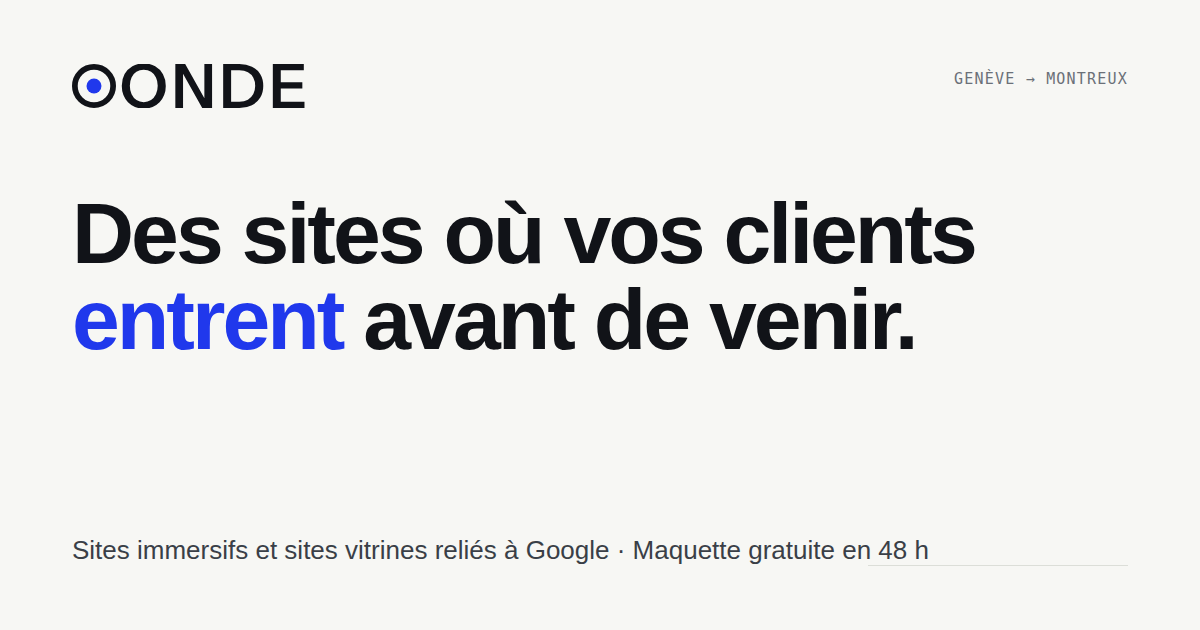
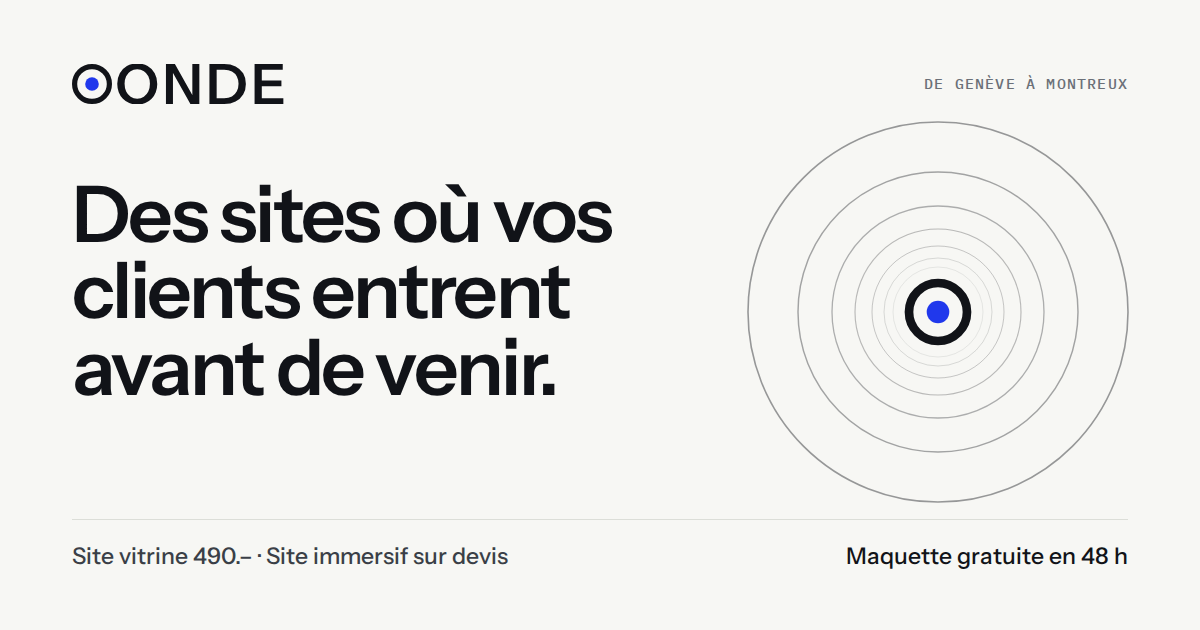
oonde-site : pages légales à jour, image de partage refaite, barre mobile
Mentions légales sans l'étude retirée de l'accueil, démos et polices à jour ;
conditions générales couvrant aussi le site immersif et les vidéos sur devis.
Image de partage avec les vraies polices et le motif de l'onde. Sur téléphone,
le bouton du haut se replie quand la barre du bas apparaît et sort de l'ordre
de tabulation. Le logo en vol reste fixe dans l'écran si l'on défile vite.

Claude-Session: https://claude.ai/code/session_01NQT9rugiEjtqW54YaMW6nL

diff --git a/oonde-site/v2/dist/conditions.html b/oonde-site/v2/dist/conditions.html
@@ -50,8 +50,8 @@ footer a[aria-current]{color:var(--ink);font-weight:600}
 <main class="doc">
 <span class="eyebrow">Contrat</span>
 <h1>Conditions générales</h1>
-<p class="updated">Version du 6 octobre 2026</p>
-<p class="lead">Ces conditions s’appliquent à nos prestations de création de site internet, de configuration de fiche Google et de suivi, pour les commerces et indépendants. Elles font partie de chaque offre que nous envoyons.</p>
+<p class="updated">Version du 7 octobre 2026</p>
+<p class="lead">Ces conditions s’appliquent à nos prestations pour les commerces et indépendants : site vitrine, site immersif, configuration et suivi de fiche Google, vidéos courtes. Elles font partie de chaque offre que nous envoyons.</p>
 
 <h2>1. Parties</h2>
 <p>Le prestataire est OONDE, Alexandre Steudler et Serhat Dogar, Chemin des Écureuils 1, 1028 Préverenges (« nous »). Le client est le commerce ou l’indépendant qui accepte notre offre (« vous »). Nos prestations s’adressent aux professionnels.</p>
@@ -66,7 +66,8 @@ footer a[aria-current]{color:var(--ink);font-weight:600}
  <li>Nous confirmons par écrit et commençons le travail.</li>
 </ol>
 
-<h2>4. Ce que comprend le Pack OONDE</h2>
+<h2>4. Ce que comprennent nos offres</h2>
+<p><b>Site vitrine et fiche Google</b> (490 CHF, puis abonnement) :</p>
 <ul>
  <li>un site d’une page, adapté au téléphone, avec vos prestations, prix, horaires, adresse, plan et boutons d’appel et de WhatsApp ;</li>
  <li>la rédaction des textes à partir des informations que vous nous donnez ;</li>
@@ -74,6 +75,7 @@ footer a[aria-current]{color:var(--ink);font-weight:600}
  <li>l’enregistrement d’un nom de domaine en .ch (ou le raccordement du vôtre) et l’hébergement ;</li>
  <li>tant que l’abonnement court : l’hébergement, le renouvellement du domaine et les petites modifications (prix, horaires, textes courts, remplacement de photos), dans un délai de 3 jours ouvrables après votre demande.</li>
 </ul>
+<p><b>Site immersif et vidéos courtes</b> (sur devis) : l’offre écrite précise ce qui est filmé ou modélisé en 3D, les pages, le prix et les délais. Le site immersif comprend le site vitrine décrit ci-dessus et, pour un commerce, la fiche Google ; l’abonnement s’applique de la même manière. Avec le devis, nous vous envoyons un premier aperçu de votre lieu, gratuit et sans engagement.</p>
 <p>Les travaux plus importants (nouvelle page, refonte, boutique en ligne, réservation en ligne connectée à un agenda) font l’objet d’une offre séparée.</p>
 
 <h2>5. Délais et validation</h2>
@@ -81,9 +83,10 @@ footer a[aria-current]{color:var(--ink);font-weight:600}
 
 <h2>6. Prix et paiement</h2>
 <ul>
- <li>Création : <b>490 CHF</b>, une seule fois, facturés à la mise en ligne, <b>seulement si vous validez le site</b>. Si vous refusez le site terminé, vous ne payez rien et nous le retirons.</li>
+ <li>Création du site vitrine : <b>490 CHF</b>, une seule fois, facturés à la mise en ligne, <b>seulement si vous validez le site</b>. Si vous refusez le site terminé, vous ne payez rien et nous le retirons.</li>
  <li>Abonnement : <b>20 CHF par mois</b>, à partir de la mise en ligne, facturé par mois ou par année selon votre choix.</li>
  <li>Option Suivi Google : <b>50 CHF par mois</b>.</li>
+ <li>Site immersif et vidéos : le prix fixé dans l’offre acceptée, facturé selon l’échéancier qu’elle prévoit.</li>
  <li>Les factures sont payables dans les 10 jours, par virement ou TWINT. Prix en francs suisses. OONDE n’est pas assujetti à la TVA (<span class="law">art. 10 LTVA</span>).</li>
  <li>Après un rappel resté sans suite pendant 30 jours, nous pouvons suspendre le site jusqu’au paiement.</li>
 </ul>

diff --git a/oonde-site/v2/preview/conditions.html b/oonde-site/v2/preview/conditions.html
@@ -50,8 +50,8 @@ footer a[aria-current]{color:var(--ink);font-weight:600}
 <main class="doc">
 <span class="eyebrow">Contrat</span>
 <h1>Conditions générales</h1>
-<p class="updated">Version du 6 octobre 2026</p>
-<p class="lead">Ces conditions s’appliquent à nos prestations de création de site internet, de configuration de fiche Google et de suivi, pour les commerces et indépendants. Elles font partie de chaque offre que nous envoyons.</p>
+<p class="updated">Version du 7 octobre 2026</p>
+<p class="lead">Ces conditions s’appliquent à nos prestations pour les commerces et indépendants : site vitrine, site immersif, configuration et suivi de fiche Google, vidéos courtes. Elles font partie de chaque offre que nous envoyons.</p>
 
 <h2>1. Parties</h2>
 <p>Le prestataire est OONDE, Alexandre Steudler et Serhat Dogar, Chemin des Écureuils 1, 1028 Préverenges (« nous »). Le client est le commerce ou l’indépendant qui accepte notre offre (« vous »). Nos prestations s’adressent aux professionnels.</p>
@@ -66,7 +66,8 @@ footer a[aria-current]{color:var(--ink);font-weight:600}
  <li>Nous confirmons par écrit et commençons le travail.</li>
 </ol>
 
-<h2>4. Ce que comprend le Pack OONDE</h2>
+<h2>4. Ce que comprennent nos offres</h2>
+<p><b>Site vitrine et fiche Google</b> (490 CHF, puis abonnement) :</p>
 <ul>
  <li>un site d’une page, adapté au téléphone, avec vos prestations, prix, horaires, adresse, plan et boutons d’appel et de WhatsApp ;</li>
  <li>la rédaction des textes à partir des informations que vous nous donnez ;</li>
@@ -74,6 +75,7 @@ footer a[aria-current]{color:var(--ink);font-weight:600}
  <li>l’enregistrement d’un nom de domaine en .ch (ou le raccordement du vôtre) et l’hébergement ;</li>
  <li>tant que l’abonnement court : l’hébergement, le renouvellement du domaine et les petites modifications (prix, horaires, textes courts, remplacement de photos), dans un délai de 3 jours ouvrables après votre demande.</li>
 </ul>
+<p><b>Site immersif et vidéos courtes</b> (sur devis) : l’offre écrite précise ce qui est filmé ou modélisé en 3D, les pages, le prix et les délais. Le site immersif comprend le site vitrine décrit ci-dessus et, pour un commerce, la fiche Google ; l’abonnement s’applique de la même manière. Avec le devis, nous vous envoyons un premier aperçu de votre lieu, gratuit et sans engagement.</p>
 <p>Les travaux plus importants (nouvelle page, refonte, boutique en ligne, réservation en ligne connectée à un agenda) font l’objet d’une offre séparée.</p>
 
 <h2>5. Délais et validation</h2>
@@ -81,9 +83,10 @@ footer a[aria-current]{color:var(--ink);font-weight:600}
 
 <h2>6. Prix et paiement</h2>
 <ul>
- <li>Création : <b>490 CHF</b>, une seule fois, facturés à la mise en ligne, <b>seulement si vous validez le site</b>. Si vous refusez le site terminé, vous ne payez rien et nous le retirons.</li>
+ <li>Création du site vitrine : <b>490 CHF</b>, une seule fois, facturés à la mise en ligne, <b>seulement si vous validez le site</b>. Si vous refusez le site terminé, vous ne payez rien et nous le retirons.</li>
  <li>Abonnement : <b>20 CHF par mois</b>, à partir de la mise en ligne, facturé par mois ou par année selon votre choix.</li>
  <li>Option Suivi Google : <b>50 CHF par mois</b>.</li>
+ <li>Site immersif et vidéos : le prix fixé dans l’offre acceptée, facturé selon l’échéancier qu’elle prévoit.</li>
  <li>Les factures sont payables dans les 10 jours, par virement ou TWINT. Prix en francs suisses. OONDE n’est pas assujetti à la TVA (<span class="law">art. 10 LTVA</span>).</li>
  <li>Après un rappel resté sans suite pendant 30 jours, nous pouvons suspendre le site jusqu’au paiement.</li>
 </ul>

diff --git a/oonde-site/v2/legal/conditions.html b/oonde-site/v2/legal/conditions.html
@@ -1,7 +1,7 @@
 <span class="eyebrow">Contrat</span>
 <h1>Conditions générales</h1>
-<p class="updated">Version du 6 octobre 2026</p>
-<p class="lead">Ces conditions s'appliquent à nos prestations de création de site internet, de configuration de fiche Google et de suivi, pour les commerces et indépendants. Elles font partie de chaque offre que nous envoyons.</p>
+<p class="updated">Version du 7 octobre 2026</p>
+<p class="lead">Ces conditions s'appliquent à nos prestations pour les commerces et indépendants : site vitrine, site immersif, configuration et suivi de fiche Google, vidéos courtes. Elles font partie de chaque offre que nous envoyons.</p>
 
 <h2>1. Parties</h2>
 <p>Le prestataire est OONDE, Alexandre Steudler et Serhat Dogar, Chemin des Écureuils 1, 1028 Préverenges (« nous »). Le client est le commerce ou l'indépendant qui accepte notre offre (« vous »). Nos prestations s'adressent aux professionnels.</p>
@@ -16,7 +16,8 @@
  <li>Nous confirmons par écrit et commençons le travail.</li>
 </ol>
 
-<h2>4. Ce que comprend le Pack OONDE</h2>
+<h2>4. Ce que comprennent nos offres</h2>
+<p><b>Site vitrine et fiche Google</b> (490 CHF, puis abonnement) :</p>
 <ul>
  <li>un site d'une page, adapté au téléphone, avec vos prestations, prix, horaires, adresse, plan et boutons d'appel et de WhatsApp ;</li>
  <li>la rédaction des textes à partir des informations que vous nous donnez ;</li>
@@ -24,6 +25,7 @@
  <li>l'enregistrement d'un nom de domaine en .ch (ou le raccordement du vôtre) et l'hébergement ;</li>
  <li>tant que l'abonnement court : l'hébergement, le renouvellement du domaine et les petites modifications (prix, horaires, textes courts, remplacement de photos), dans un délai de 3 jours ouvrables après votre demande.</li>
 </ul>
+<p><b>Site immersif et vidéos courtes</b> (sur devis) : l'offre écrite précise ce qui est filmé ou modélisé en 3D, les pages, le prix et les délais. Le site immersif comprend le site vitrine décrit ci-dessus et, pour un commerce, la fiche Google ; l'abonnement s'applique de la même manière. Avec le devis, nous vous envoyons un premier aperçu de votre lieu, gratuit et sans engagement.</p>
 <p>Les travaux plus importants (nouvelle page, refonte, boutique en ligne, réservation en ligne connectée à un agenda) font l'objet d'une offre séparée.</p>
 
 <h2>5. Délais et validation</h2>
@@ -31,9 +33,10 @@
 
 <h2>6. Prix et paiement</h2>
 <ul>
- <li>Création : <b>490 CHF</b>, une seule fois, facturés à la mise en ligne, <b>seulement si vous validez le site</b>. Si vous refusez le site terminé, vous ne payez rien et nous le retirons.</li>
+ <li>Création du site vitrine : <b>490 CHF</b>, une seule fois, facturés à la mise en ligne, <b>seulement si vous validez le site</b>. Si vous refusez le site terminé, vous ne payez rien et nous le retirons.</li>
  <li>Abonnement : <b>20 CHF par mois</b>, à partir de la mise en ligne, facturé par mois ou par année selon votre choix.</li>
  <li>Option Suivi Google : <b>50 CHF par mois</b>.</li>
+ <li>Site immersif et vidéos : le prix fixé dans l'offre acceptée, facturé selon l'échéancier qu'elle prévoit.</li>
  <li>Les factures sont payables dans les 10 jours, par virement ou TWINT. Prix en francs suisses. OONDE n'est pas assujetti à la TVA (<span class="law">art. 10 LTVA</span>).</li>
  <li>Après un rappel resté sans suite pendant 30 jours, nous pouvons suspendre le site jusqu'au paiement.</li>
 </ul>

diff --git a/oonde-site/v2/dist/index.html b/oonde-site/v2/dist/index.html
@@ -71,7 +71,7 @@ section{padding-block:clamp(48px,7vw,96px);border-top:1px solid var(--line)}
 .nav .btn{padding:10px 14px;font-size:14px;min-height:40px;transition:opacity .2s,background-color .12s}
 .nav .btn .s{display:none}
 @media (max-width:860px){.nav nav a:not(.keep){display:none}}
-@media (max-width:700px){.nav .in{height:56px}.logo svg{height:20px}.nav .btn .l{display:none}.nav .btn .s{display:inline}.e-cta .nav .btn,.mbar-on .nav .btn{opacity:0;pointer-events:none}}
+@media (max-width:700px){.nav .in{height:56px}.logo svg{height:20px}.nav nav{margin-left:auto}.nav .btn .l{display:none}.nav .btn .s{display:inline}.nav .btn{max-width:160px;overflow:hidden;white-space:nowrap;transition:opacity .18s,max-width .22s var(--ease),padding .22s var(--ease),margin .22s var(--ease),visibility 0s}.e-cta .nav .btn,.mbar-on .nav .btn{opacity:0;max-width:0;padding-inline:0;margin-left:-16px;border-width:0;visibility:hidden;transition:opacity .18s,max-width .22s var(--ease),padding .22s var(--ease),margin .22s var(--ease),visibility 0s .22s}}   /* téléphone : quand la barre du bas prend le relais, le bouton du haut se replie et « Prix » glisse à droite */
 
 /* Le fil : un trait dans la marge, le point marque où l'on est. Ordinateur large seulement. */
 .fil{display:none}
@@ -635,7 +635,8 @@ function ui(p){
  /* Le logo apparaît exactement sur le dernier anneau, les lettres sortent de derrière le O, puis il rejoint la barre. */
  const r=navLogo.querySelector('svg').getBoundingClientRect(),s=stage.getBoundingClientRect(),u=ease(clamp((p-PF)/(1-PF),0,1)),rv=clamp((p-PS-.015)/.06,0,1);
  /* téléphone : pendant que les lettres sortent, le O glisse à gauche pour que le mot entier soit centré */
- const x0=(mob?lerp(cx-.5*Hl,(W-5.35*Hl)/2,ease(rv)):cx-.5*Hl)+s.left,y0=cy-.5*Hl+s.top;
+ /* le point de départ reste fixe dans l'écran : si l'on défile vite, le grand logo ne remonte pas avec la scène par-dessus la barre */
+ const x0=(mob?lerp(cx-.5*Hl,(W-5.35*Hl)/2,ease(rv)):cx-.5*Hl)+s.left,y0=cy-.5*Hl+Math.max(0,s.top);
  const lx=lerp(x0,r.left,u),lh=lerp(Hl,r.height,u);
  eLogo.style.opacity=u>=1?0:1;eLogo.style.left=lx+'px';eLogo.style.top=lerp(y0,r.top,u)+'px';eLogo.style.height=lh+'px';
  /* Les lettres ne sortent que là où l'écran a la place : sur téléphone, le mot se déroule pendant que le logo glisse vers la barre. */

diff --git a/oonde-site/v2/home.html b/oonde-site/v2/home.html
@@ -64,7 +64,7 @@ section{padding-block:clamp(48px,7vw,96px);border-top:1px solid var(--line)}
 .nav .btn{padding:10px 14px;font-size:14px;min-height:40px;transition:opacity .2s,background-color .12s}
 .nav .btn .s{display:none}
 @media (max-width:860px){.nav nav a:not(.keep){display:none}}
-@media (max-width:700px){.nav .in{height:56px}.logo svg{height:20px}.nav .btn .l{display:none}.nav .btn .s{display:inline}.e-cta .nav .btn,.mbar-on .nav .btn{opacity:0;pointer-events:none}}
+@media (max-width:700px){.nav .in{height:56px}.logo svg{height:20px}.nav nav{margin-left:auto}.nav .btn .l{display:none}.nav .btn .s{display:inline}.nav .btn{max-width:160px;overflow:hidden;white-space:nowrap;transition:opacity .18s,max-width .22s var(--ease),padding .22s var(--ease),margin .22s var(--ease),visibility 0s}.e-cta .nav .btn,.mbar-on .nav .btn{opacity:0;max-width:0;padding-inline:0;margin-left:-16px;border-width:0;visibility:hidden;transition:opacity .18s,max-width .22s var(--ease),padding .22s var(--ease),margin .22s var(--ease),visibility 0s .22s}}   /* téléphone : quand la barre du bas prend le relais, le bouton du haut se replie et « Prix » glisse à droite */
 
 /* Le fil : un trait dans la marge, le point marque où l'on est. Ordinateur large seulement. */
 .fil{display:none}
@@ -626,7 +626,8 @@ function ui(p){
  /* Le logo apparaît exactement sur le dernier anneau, les lettres sortent de derrière le O, puis il rejoint la barre. */
  const r=navLogo.querySelector('svg').getBoundingClientRect(),s=stage.getBoundingClientRect(),u=ease(clamp((p-PF)/(1-PF),0,1)),rv=clamp((p-PS-.015)/.06,0,1);
  /* téléphone : pendant que les lettres sortent, le O glisse à gauche pour que le mot entier soit centré */
- const x0=(mob?lerp(cx-.5*Hl,(W-5.35*Hl)/2,ease(rv)):cx-.5*Hl)+s.left,y0=cy-.5*Hl+s.top;
+ /* le point de départ reste fixe dans l'écran : si l'on défile vite, le grand logo ne remonte pas avec la scène par-dessus la barre */
+ const x0=(mob?lerp(cx-.5*Hl,(W-5.35*Hl)/2,ease(rv)):cx-.5*Hl)+s.left,y0=cy-.5*Hl+Math.max(0,s.top);
  const lx=lerp(x0,r.left,u),lh=lerp(Hl,r.height,u);
  eLogo.style.opacity=u>=1?0:1;eLogo.style.left=lx+'px';eLogo.style.top=lerp(y0,r.top,u)+'px';eLogo.style.height=lh+'px';
  /* Les lettres ne sortent que là où l'écran a la place : sur téléphone, le mot se déroule pendant que le logo glisse vers la barre. */

diff --git a/oonde-site/v2/preview/index.html b/oonde-site/v2/preview/index.html
@@ -64,7 +64,7 @@ section{padding-block:clamp(48px,7vw,96px);border-top:1px solid var(--line)}
 .nav .btn{padding:10px 14px;font-size:14px;min-height:40px;transition:opacity .2s,background-color .12s}
 .nav .btn .s{display:none}
 @media (max-width:860px){.nav nav a:not(.keep){display:none}}
-@media (max-width:700px){.nav .in{height:56px}.logo svg{height:20px}.nav .btn .l{display:none}.nav .btn .s{display:inline}.e-cta .nav .btn,.mbar-on .nav .btn{opacity:0;pointer-events:none}}
+@media (max-width:700px){.nav .in{height:56px}.logo svg{height:20px}.nav nav{margin-left:auto}.nav .btn .l{display:none}.nav .btn .s{display:inline}.nav .btn{max-width:160px;overflow:hidden;white-space:nowrap;transition:opacity .18s,max-width .22s var(--ease),padding .22s var(--ease),margin .22s var(--ease),visibility 0s}.e-cta .nav .btn,.mbar-on .nav .btn{opacity:0;max-width:0;padding-inline:0;margin-left:-16px;border-width:0;visibility:hidden;transition:opacity .18s,max-width .22s var(--ease),padding .22s var(--ease),margin .22s var(--ease),visibility 0s .22s}}   /* téléphone : quand la barre du bas prend le relais, le bouton du haut se replie et « Prix » glisse à droite */
 
 /* Le fil : un trait dans la marge, le point marque où l'on est. Ordinateur large seulement. */
 .fil{display:none}
@@ -626,7 +626,8 @@ function ui(p){
  /* Le logo apparaît exactement sur le dernier anneau, les lettres sortent de derrière le O, puis il rejoint la barre. */
  const r=navLogo.querySelector('svg').getBoundingClientRect(),s=stage.getBoundingClientRect(),u=ease(clamp((p-PF)/(1-PF),0,1)),rv=clamp((p-PS-.015)/.06,0,1);
  /* téléphone : pendant que les lettres sortent, le O glisse à gauche pour que le mot entier soit centré */
- const x0=(mob?lerp(cx-.5*Hl,(W-5.35*Hl)/2,ease(rv)):cx-.5*Hl)+s.left,y0=cy-.5*Hl+s.top;
+ /* le point de départ reste fixe dans l'écran : si l'on défile vite, le grand logo ne remonte pas avec la scène par-dessus la barre */
+ const x0=(mob?lerp(cx-.5*Hl,(W-5.35*Hl)/2,ease(rv)):cx-.5*Hl)+s.left,y0=cy-.5*Hl+Math.max(0,s.top);
  const lx=lerp(x0,r.left,u),lh=lerp(Hl,r.height,u);
  eLogo.style.opacity=u>=1?0:1;eLogo.style.left=lx+'px';eLogo.style.top=lerp(y0,r.top,u)+'px';eLogo.style.height=lh+'px';
  /* Les lettres ne sortent que là où l'écran a la place : sur téléphone, le mot se déroule pendant que le logo glisse vers la barre. */

diff --git a/oonde-site/v2/dist/mentions-legales.html b/oonde-site/v2/dist/mentions-legales.html
@@ -50,7 +50,7 @@ footer a[aria-current]{color:var(--ink);font-weight:600}
 <main class="doc">
 <span class="eyebrow">Informations légales</span>
 <h1>Mentions légales</h1>
-<p class="updated">Dernière mise à jour : 6 octobre 2026</p>
+<p class="updated">Dernière mise à jour : 7 octobre 2026</p>
 
 <h2>Qui édite ce site</h2>
 <div class="card">
@@ -72,11 +72,8 @@ footer a[aria-current]{color:var(--ink);font-weight:600}
 <p>Ce site est hébergé par Netlify, Inc., 101 2nd Street, San Francisco, CA 94105, États-Unis. Le nom de domaine oonde.ch est enregistré auprès de Hostinger.</p>
 
 <h2>Propriété intellectuelle</h2>
-<p>Les textes, le logo OONDE et la mise en page de ce site appartiennent à OONDE. Toute reproduction demande notre accord écrit (<span class="law">LDA, RS 231.1</span>). Les commerces présentés en exemple (Salon Mirabelle, Garage des Tilleuls, Trattoria Nonna Pia) sont fictifs.</p>
-<p>Les polices Bricolage Grotesque, Instrument Sans et IBM Plex Mono sont utilisées sous licence SIL Open Font License et sont hébergées sur notre propre serveur.</p>
-
-<h2>Étude citée</h2>
-<p>Les chiffres de la page d’accueil viennent d’une étude menée par OONDE en septembre 2026 : 1 200 fiches Google Maps relevées, soit les 20 premiers résultats pour les garages, restaurants et coiffeurs de plusieurs villes de Suisse romande. Ils décrivent ce qu’ont en commun les fiches les mieux placées. Ils ne garantissent aucun classement.</p>
+<p>Les textes, le logo OONDE et la mise en page de ce site appartiennent à OONDE. Toute reproduction demande notre accord écrit (<span class="law">LDA, RS 231.1</span>). Les lieux et commerces présentés en démonstration (Les Grèves, Salon Mirabelle, Garage Fontana, Trattoria Nonna Pia) sont fictifs, comme les noms, prix et horaires des aperçus de l’essai.</p>
+<p>Les polices Instrument Sans et IBM Plex Mono sont utilisées sous licence SIL Open Font License et sont hébergées sur notre propre serveur.</p>
 
 <h2>Responsabilité</h2>
 <p>Nous vérifions avec soin les informations de ce site, sans pouvoir garantir qu’elles soient toujours complètes et à jour. Les liens vers d’autres sites (WhatsApp, Instagram, Fedlex) sont fournis pour votre confort ; nous ne sommes pas responsables de leur contenu.</p>

diff --git a/oonde-site/v2/preview/mentions-legales.html b/oonde-site/v2/preview/mentions-legales.html
@@ -50,7 +50,7 @@ footer a[aria-current]{color:var(--ink);font-weight:600}
 <main class="doc">
 <span class="eyebrow">Informations légales</span>
 <h1>Mentions légales</h1>
-<p class="updated">Dernière mise à jour : 6 octobre 2026</p>
+<p class="updated">Dernière mise à jour : 7 octobre 2026</p>
 
 <h2>Qui édite ce site</h2>
 <div class="card">
@@ -72,11 +72,8 @@ footer a[aria-current]{color:var(--ink);font-weight:600}
 <p>Ce site est hébergé par Netlify, Inc., 101 2nd Street, San Francisco, CA 94105, États-Unis. Le nom de domaine oonde.ch est enregistré auprès de Hostinger.</p>
 
 <h2>Propriété intellectuelle</h2>
-<p>Les textes, le logo OONDE et la mise en page de ce site appartiennent à OONDE. Toute reproduction demande notre accord écrit (<span class="law">LDA, RS 231.1</span>). Les commerces présentés en exemple (Salon Mirabelle, Garage des Tilleuls, Trattoria Nonna Pia) sont fictifs.</p>
-<p>Les polices Bricolage Grotesque, Instrument Sans et IBM Plex Mono sont utilisées sous licence SIL Open Font License et sont hébergées sur notre propre serveur.</p>
-
-<h2>Étude citée</h2>
-<p>Les chiffres de la page d’accueil viennent d’une étude menée par OONDE en septembre 2026 : 1 200 fiches Google Maps relevées, soit les 20 premiers résultats pour les garages, restaurants et coiffeurs de plusieurs villes de Suisse romande. Ils décrivent ce qu’ont en commun les fiches les mieux placées. Ils ne garantissent aucun classement.</p>
+<p>Les textes, le logo OONDE et la mise en page de ce site appartiennent à OONDE. Toute reproduction demande notre accord écrit (<span class="law">LDA, RS 231.1</span>). Les lieux et commerces présentés en démonstration (Les Grèves, Salon Mirabelle, Garage Fontana, Trattoria Nonna Pia) sont fictifs, comme les noms, prix et horaires des aperçus de l’essai.</p>
+<p>Les polices Instrument Sans et IBM Plex Mono sont utilisées sous licence SIL Open Font License et sont hébergées sur notre propre serveur.</p>
 
 <h2>Responsabilité</h2>
 <p>Nous vérifions avec soin les informations de ce site, sans pouvoir garantir qu’elles soient toujours complètes et à jour. Les liens vers d’autres sites (WhatsApp, Instagram, Fedlex) sont fournis pour votre confort ; nous ne sommes pas responsables de leur contenu.</p>

diff --git a/oonde-site/v2/legal/mentions-legales.html b/oonde-site/v2/legal/mentions-legales.html
@@ -1,6 +1,6 @@
 <span class="eyebrow">Informations légales</span>
 <h1>Mentions légales</h1>
-<p class="updated">Dernière mise à jour : 6 octobre 2026</p>
+<p class="updated">Dernière mise à jour : 7 octobre 2026</p>
 
 <h2>Qui édite ce site</h2>
 <div class="card">
@@ -22,11 +22,8 @@
 <p>Ce site est hébergé par Netlify, Inc., 101 2nd Street, San Francisco, CA 94105, États-Unis. Le nom de domaine oonde.ch est enregistré auprès de Hostinger.</p>
 
 <h2>Propriété intellectuelle</h2>
-<p>Les textes, le logo OONDE et la mise en page de ce site appartiennent à OONDE. Toute reproduction demande notre accord écrit (<span class="law">LDA, RS 231.1</span>). Les commerces présentés en exemple (Salon Mirabelle, Garage des Tilleuls, Trattoria Nonna Pia) sont fictifs.</p>
-<p>Les polices Bricolage Grotesque, Instrument Sans et IBM Plex Mono sont utilisées sous licence SIL Open Font License et sont hébergées sur notre propre serveur.</p>
-
-<h2>Étude citée</h2>
-<p>Les chiffres de la page d'accueil viennent d'une étude menée par OONDE en septembre 2026 : 1 200 fiches Google Maps relevées, soit les 20 premiers résultats pour les garages, restaurants et coiffeurs de plusieurs villes de Suisse romande. Ils décrivent ce qu'ont en commun les fiches les mieux placées. Ils ne garantissent aucun classement.</p>
+<p>Les textes, le logo OONDE et la mise en page de ce site appartiennent à OONDE. Toute reproduction demande notre accord écrit (<span class="law">LDA, RS 231.1</span>). Les lieux et commerces présentés en démonstration (Les Grèves, Salon Mirabelle, Garage Fontana, Trattoria Nonna Pia) sont fictifs, comme les noms, prix et horaires des aperçus de l'essai.</p>
+<p>Les polices Instrument Sans et IBM Plex Mono sont utilisées sous licence SIL Open Font License et sont hébergées sur notre propre serveur.</p>
 
 <h2>Responsabilité</h2>
 <p>Nous vérifions avec soin les informations de ce site, sans pouvoir garantir qu'elles soient toujours complètes et à jour. Les liens vers d'autres sites (WhatsApp, Instagram, Fedlex) sont fournis pour votre confort ; nous ne sommes pas responsables de leur contenu.</p>

diff --git a/oonde-site/v2/dist/confidentialite.html b/oonde-site/v2/dist/confidentialite.html
@@ -50,7 +50,7 @@ footer a[aria-current]{color:var(--ink);font-weight:600}
 <main class="doc">
 <span class="eyebrow">Protection des données</span>
 <h1>Politique de confidentialité</h1>
-<p class="updated">Dernière mise à jour : 6 octobre 2026</p>
+<p class="updated">Dernière mise à jour : 7 octobre 2026</p>
 <p class="lead">En bref : ce site ne pose aucun cookie et ne mesure pas votre visite. Vos données nous arrivent seulement quand vous nous écrivez, et nous ne les utilisons que pour vous répondre et réaliser votre site.</p>
 <p>Cette page vous informe comme le prévoit la loi fédérale sur la protection des données (<span class="law">art. 19 LPD</span>).</p>
 
@@ -62,7 +62,7 @@ footer a[aria-current]{color:var(--ink);font-weight:600}
  <li><b>Pas de cookie, pas d’outil de mesure d’audience, pas de publicité.</b></li>
  <li><b>Polices hébergées chez nous</b> : votre navigateur ne contacte ni Google ni aucun autre service tiers pour afficher la page.</li>
  <li><b>Journaux du serveur</b> : notre hébergeur, Netlify (États-Unis), enregistre automatiquement des données techniques (adresse IP, date, page demandée, navigateur) pour assurer le fonctionnement et la sécurité du site. Nous ne les utilisons pas pour vous identifier.</li>
- <li><b>Essai de site</b> : le nom de commerce et les choix que vous faites dans « Essayez maintenant » restent dans votre navigateur (stockage local). Ils ne nous sont envoyés que si vous appuyez sur le bouton WhatsApp.</li>
+ <li><b>Essai de site</b> : le nom de commerce et les choix que vous faites dans « Essayez avec votre nom » restent dans votre navigateur (stockage local). Ils ne nous sont envoyés que si vous appuyez sur le bouton WhatsApp.</li>
 </ul>
 
 <h2>Quand vous nous contactez</h2>

diff --git a/oonde-site/v2/preview/confidentialite.html b/oonde-site/v2/preview/confidentialite.html
@@ -50,7 +50,7 @@ footer a[aria-current]{color:var(--ink);font-weight:600}
 <main class="doc">
 <span class="eyebrow">Protection des données</span>
 <h1>Politique de confidentialité</h1>
-<p class="updated">Dernière mise à jour : 6 octobre 2026</p>
+<p class="updated">Dernière mise à jour : 7 octobre 2026</p>
 <p class="lead">En bref : ce site ne pose aucun cookie et ne mesure pas votre visite. Vos données nous arrivent seulement quand vous nous écrivez, et nous ne les utilisons que pour vous répondre et réaliser votre site.</p>
 <p>Cette page vous informe comme le prévoit la loi fédérale sur la protection des données (<span class="law">art. 19 LPD</span>).</p>
 
@@ -62,7 +62,7 @@ footer a[aria-current]{color:var(--ink);font-weight:600}
  <li><b>Pas de cookie, pas d’outil de mesure d’audience, pas de publicité.</b></li>
  <li><b>Polices hébergées chez nous</b> : votre navigateur ne contacte ni Google ni aucun autre service tiers pour afficher la page.</li>
  <li><b>Journaux du serveur</b> : notre hébergeur, Netlify (États-Unis), enregistre automatiquement des données techniques (adresse IP, date, page demandée, navigateur) pour assurer le fonctionnement et la sécurité du site. Nous ne les utilisons pas pour vous identifier.</li>
- <li><b>Essai de site</b> : le nom de commerce et les choix que vous faites dans « Essayez maintenant » restent dans votre navigateur (stockage local). Ils ne nous sont envoyés que si vous appuyez sur le bouton WhatsApp.</li>
+ <li><b>Essai de site</b> : le nom de commerce et les choix que vous faites dans « Essayez avec votre nom » restent dans votre navigateur (stockage local). Ils ne nous sont envoyés que si vous appuyez sur le bouton WhatsApp.</li>
 </ul>
 
 <h2>Quand vous nous contactez</h2>

diff --git a/oonde-site/v2/legal/confidentialite.html b/oonde-site/v2/legal/confidentialite.html
@@ -1,6 +1,6 @@
 <span class="eyebrow">Protection des données</span>
 <h1>Politique de confidentialité</h1>
-<p class="updated">Dernière mise à jour : 6 octobre 2026</p>
+<p class="updated">Dernière mise à jour : 7 octobre 2026</p>
 <p class="lead">En bref : ce site ne pose aucun cookie et ne mesure pas votre visite. Vos données nous arrivent seulement quand vous nous écrivez, et nous ne les utilisons que pour vous répondre et réaliser votre site.</p>
 <p>Cette page vous informe comme le prévoit la loi fédérale sur la protection des données (<span class="law">art. 19 LPD</span>).</p>
 
@@ -12,7 +12,7 @@
  <li><b>Pas de cookie, pas d'outil de mesure d'audience, pas de publicité.</b></li>
  <li><b>Polices hébergées chez nous</b> : votre navigateur ne contacte ni Google ni aucun autre service tiers pour afficher la page.</li>
  <li><b>Journaux du serveur</b> : notre hébergeur, Netlify (États-Unis), enregistre automatiquement des données techniques (adresse IP, date, page demandée, navigateur) pour assurer le fonctionnement et la sécurité du site. Nous ne les utilisons pas pour vous identifier.</li>
- <li><b>Essai de site</b> : le nom de commerce et les choix que vous faites dans « Essayez maintenant » restent dans votre navigateur (stockage local). Ils ne nous sont envoyés que si vous appuyez sur le bouton WhatsApp.</li>
+ <li><b>Essai de site</b> : le nom de commerce et les choix que vous faites dans « Essayez avec votre nom » restent dans votre navigateur (stockage local). Ils ne nous sont envoyés que si vous appuyez sur le bouton WhatsApp.</li>
 </ul>
 
 <h2>Quand vous nous contactez</h2>
